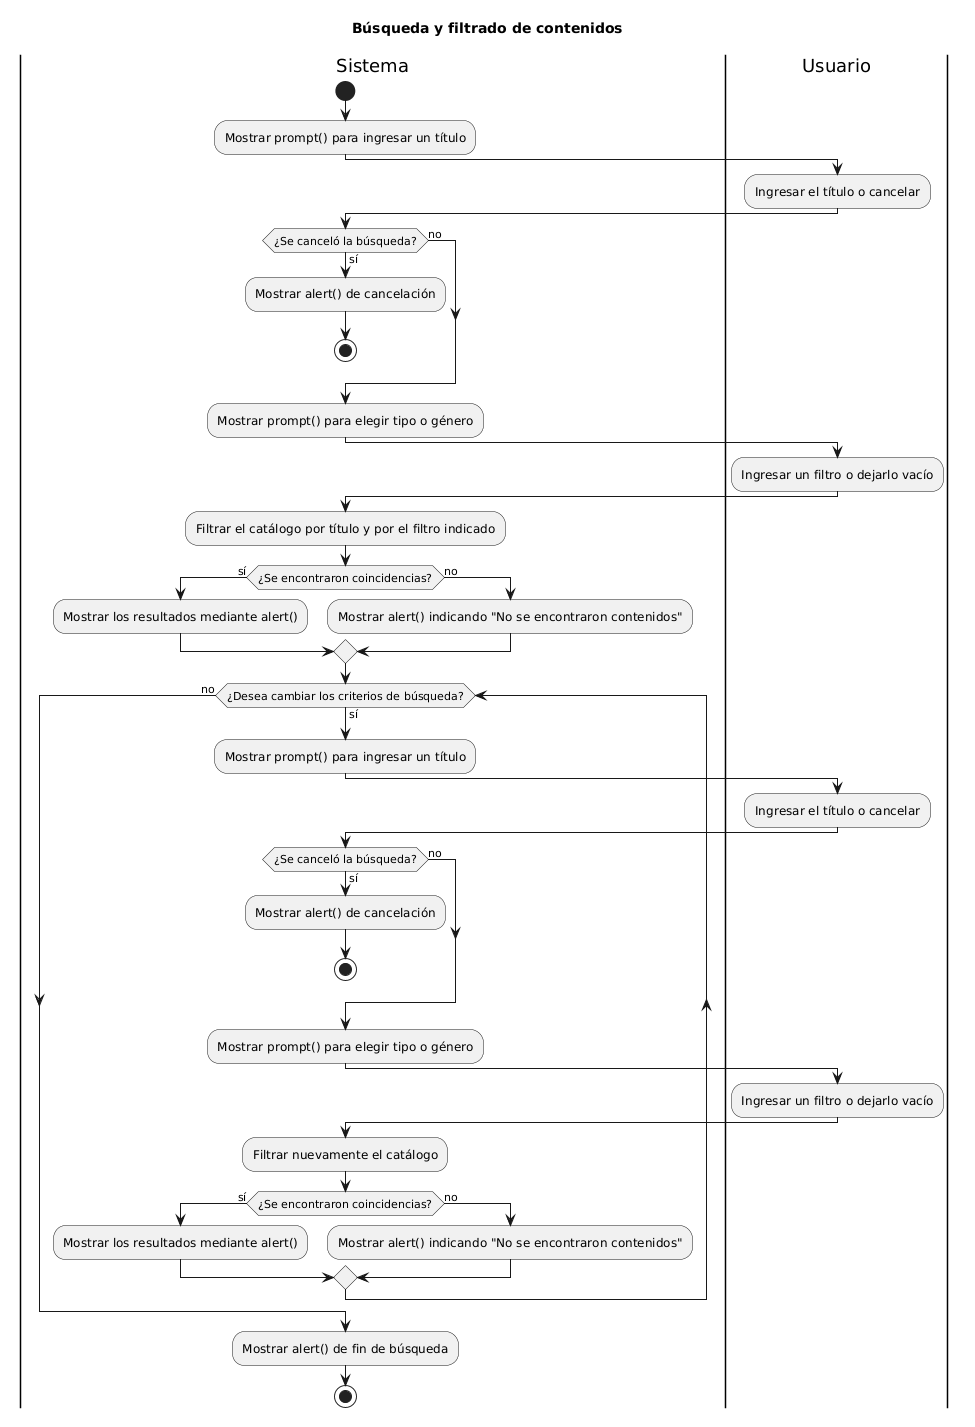
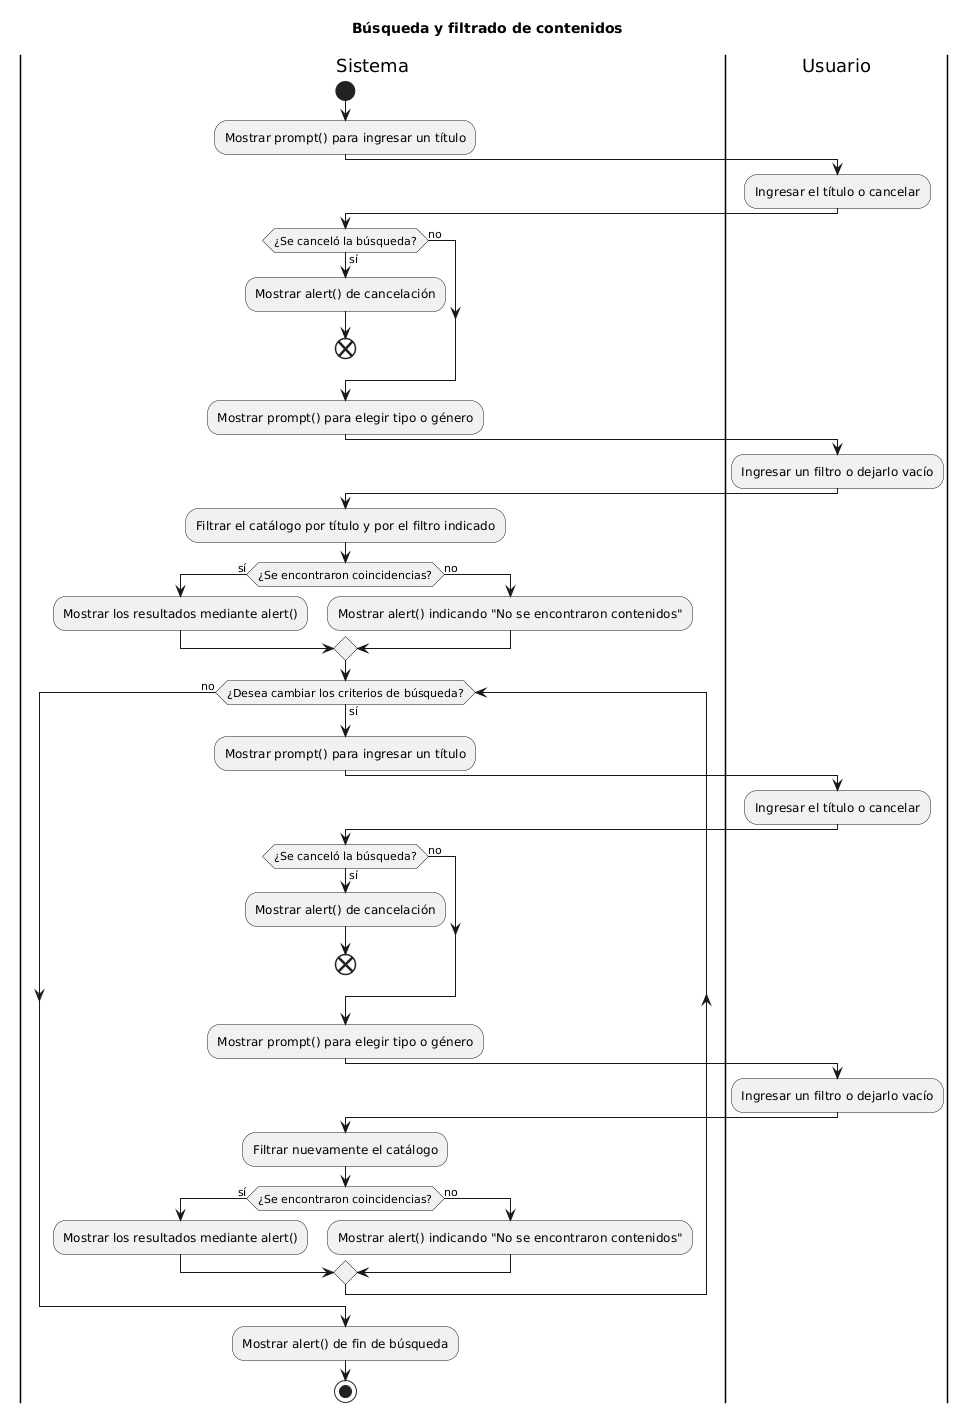
fix: correcciones finales de RC6, RC7, RC8, RC9 y RC17 y documentacion de mockup

diff --git a/docs/03-specs/actividad-obligatoria-3/spec-arq-diagramas.md b/docs/03-specs/actividad-obligatoria-3/spec-arq-diagramas.md
@@ -40,18 +40,24 @@ Se utilizarán **particiones (swimlanes)** en los 4 diagramas dividiendo el mode
 ## MOMENTO 2: Evidencia de Ejecución
 
 ### 1. Prompt exacto utilizado en Copilot Agent
-**Contexto adjunto:** `plan.md`, `index.html`.
+**Contexto adjunto:** `plan.md`, `index.html` y análisis del mockup visual (`disenio-bootstrap.png`).
+
+**Evidencia de uso del mockup:** Aunque la imagen no pudo procesarse directamente en el prompt de la IA por limitaciones del chat, el análisis visual manual del mockup determinó la lógica exacta de los diagramas:
+- **Flujo de Gestión (Flujo 2):** Se derivó directamente de los botones verdes "Agregar a Mi Lista" presentes en la sección de *Películas Destacadas* y en cada tarjeta del *Catálogo de películas*.
+- **Flujo de Exportar/Compartir (Flujo 3):** Se justificó por la presencia del botón destacado "Compartir Mi Lista" ubicado en la barra de navegación superior.
+- **Flujo de Calificación (Flujo 4):** Se basó en el botón "Calificar" de las tarjetas del catálogo. Además, el texto del footer ("Tu biblioteca de películas y series") motivó la generalización de los diagramas para procesar "contenidos" y no solo películas.
+- **División de responsabilidades (Swimlanes):** Al ser una interfaz estática en esta entrega, se definió que las acciones del |Usuario| se simulen con `prompt`/`alert`, aislando la lógica del |Sistema|.
 
 ```text
-Actúa como Arquitecto de Software experto en UML. Analiza los archivos adjuntos (plan.md, index.html y el mockup) y genera el código PlantUML exacto para los 4 flujos de actividades de este proyecto: 
-1. Búsqueda y filtrado de películas
-2. Simulación de compra de entradas
-3. Autenticación (Login)
-4. Calificación de películas
+Actúa como Arquitecto de Software experto en UML. Analiza los archivos adjuntos (plan.md, index.html y disenio-bootstrap.png) y genera el código PlantUML exacto para los 4 flujos de actividades de este proyecto: 
+1. Búsqueda y filtrado de contenidos
+2. Gestión de Lista Personal (Favoritos)
+3. Exportar y Compartir Lista Personal
+4. Calificación de Contenidos Vistos
 
 REGLAS ESTRICTAS DE SINTAXIS PLANTUML:
 - Usa particiones (swimlanes) estrictamente divididas en |Usuario| y |Sistema|.
-- Usa `start` para iniciar y `stop` para finalizar cada flujo.
+- Usa `start` para iniciar y `stop` para finalizar cada flujo (los cierres alternativos deben usar `end`).
 - Escribe las actividades correctamente con `:` al inicio y `;` al final.
 - Incluye decisiones condicionales usando `if (...) then (sí)` y `else (no)`.
 - Incluye bucles iterativos usando `while (...)` o `repeat`.
